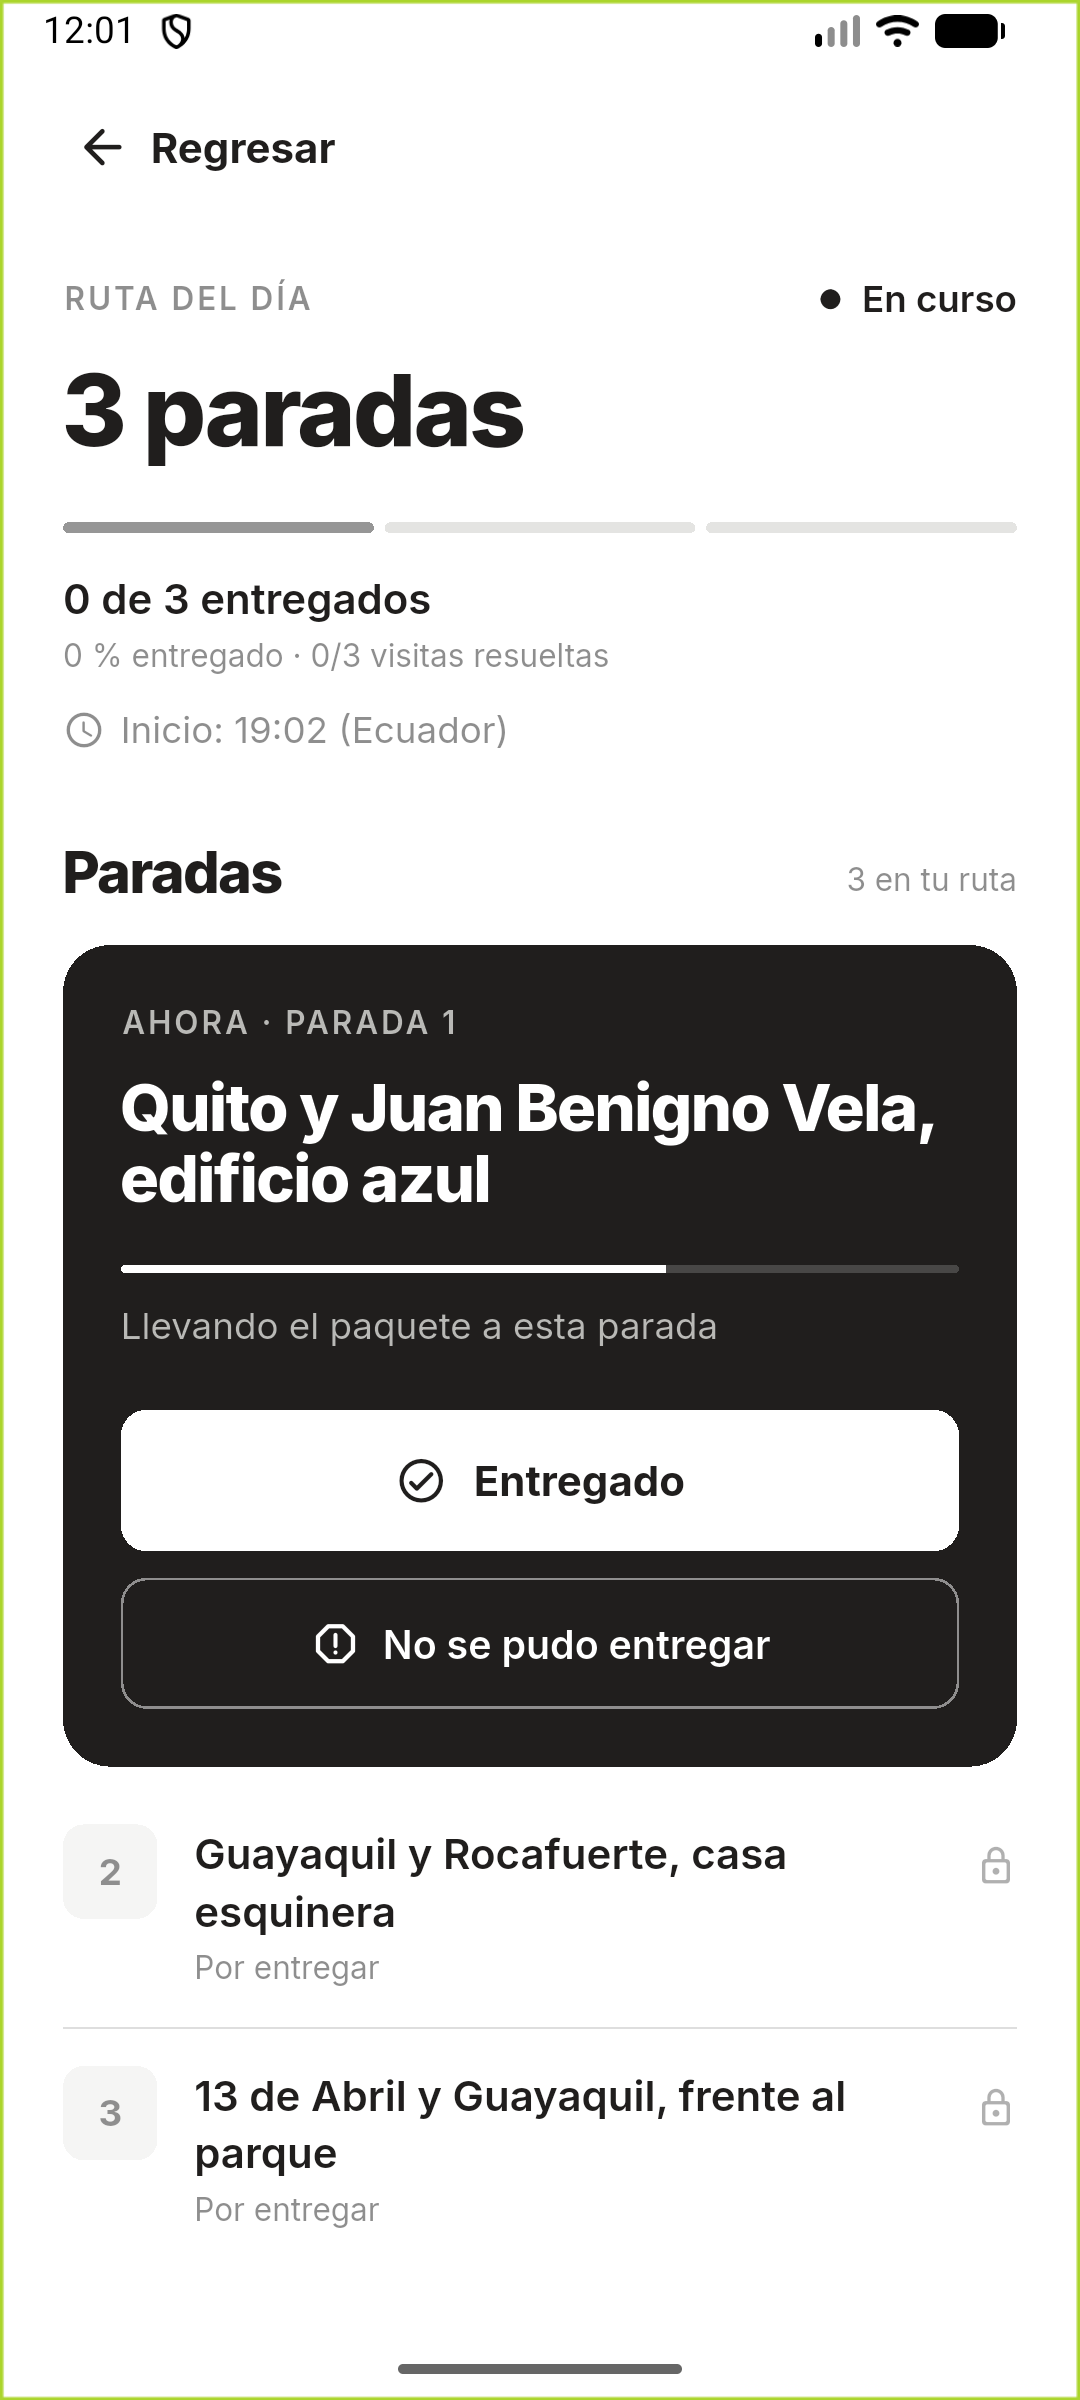
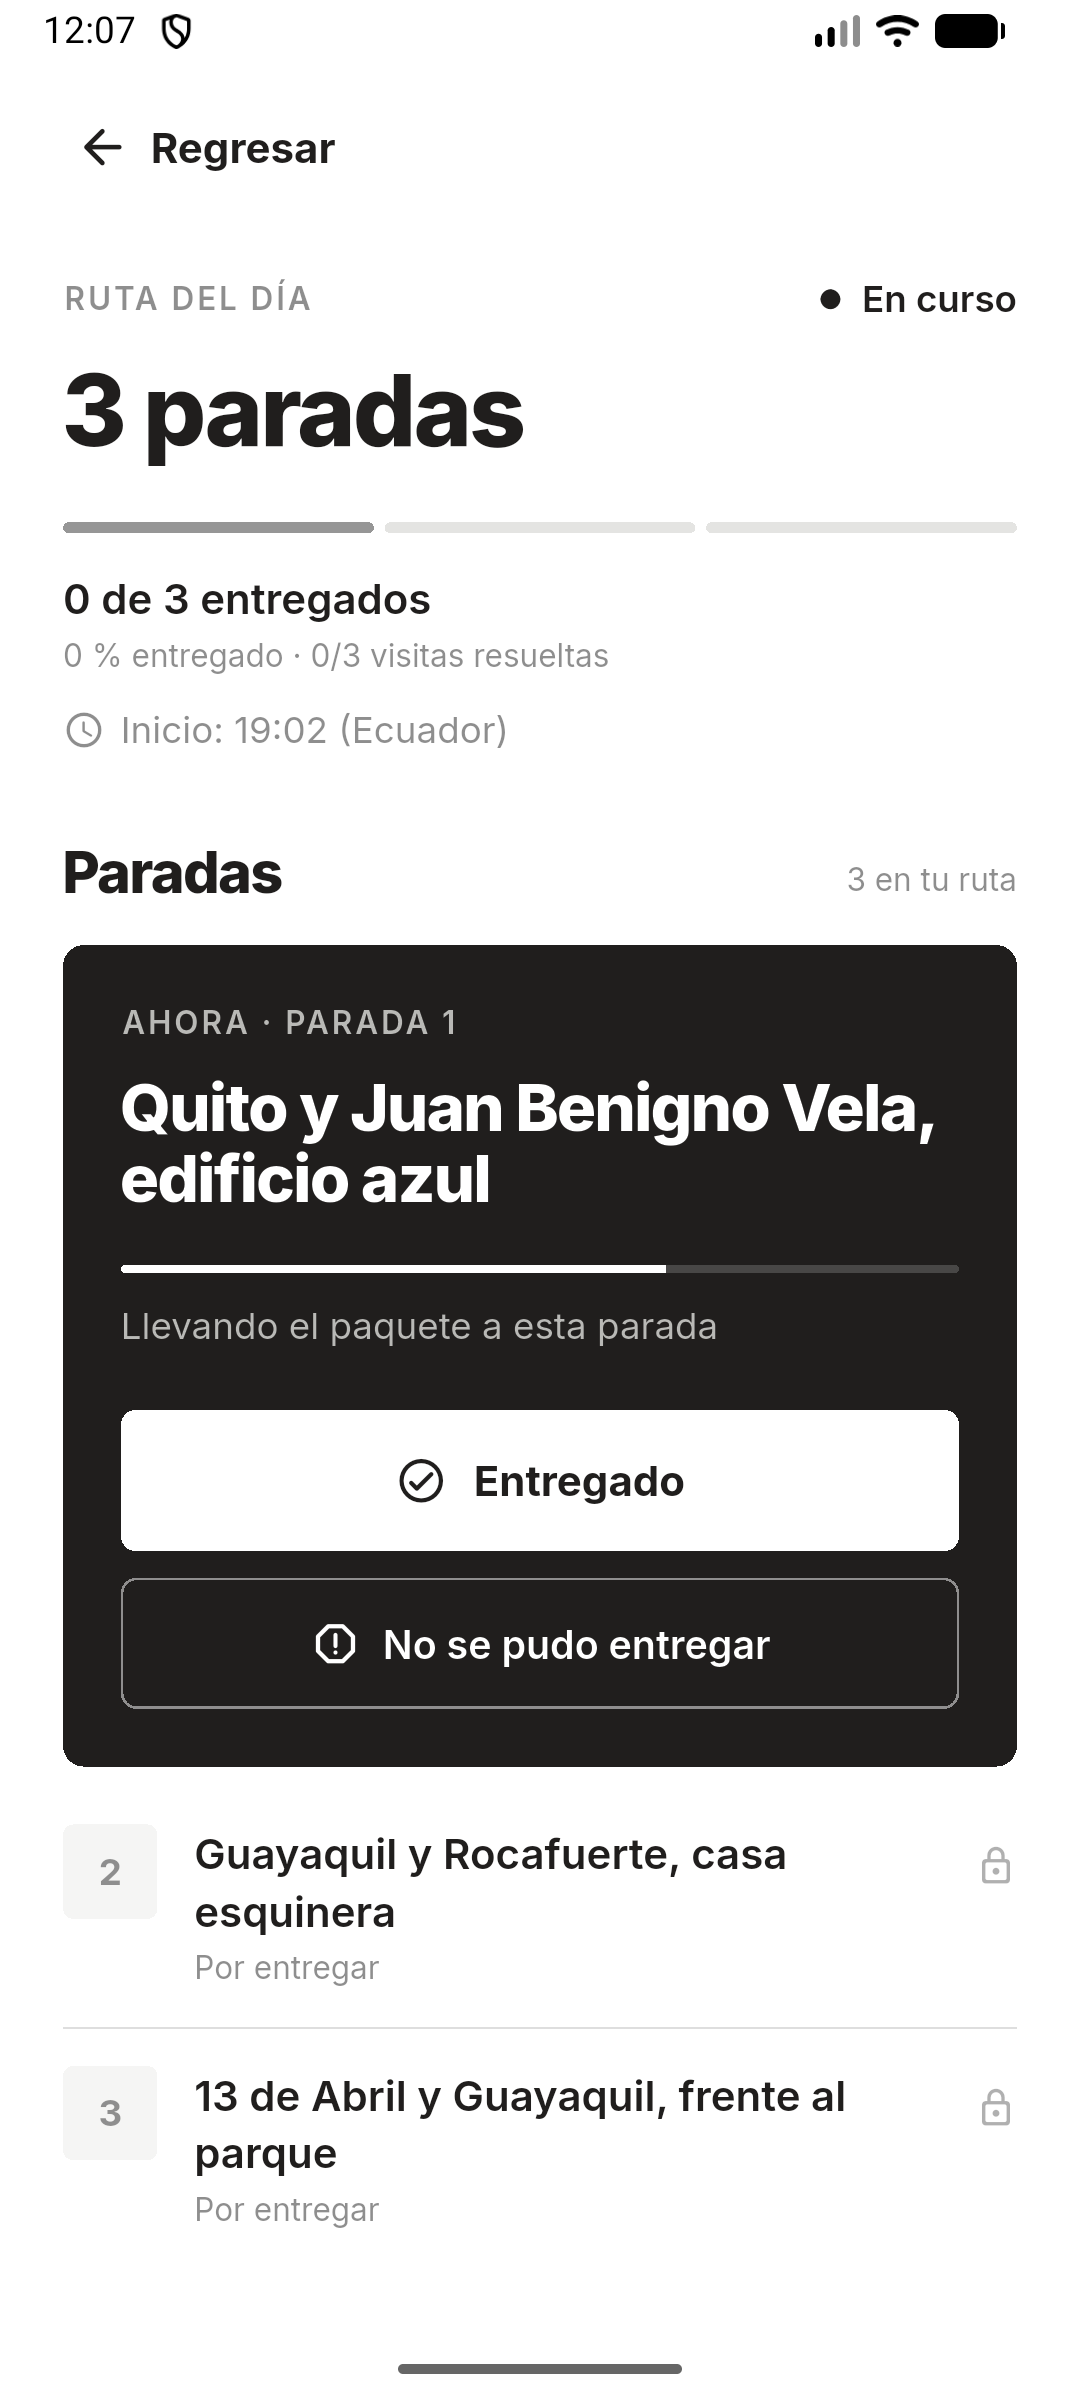
style(driver): esquinas menos redondeadas en tarjetas, botones y hojas

diff --git a/lib/features/routes/presentation/route_style.dart b/lib/features/routes/presentation/route_style.dart
@@ -26,9 +26,9 @@ class RouteTone {
 }
 
 class RouteRadius {
-  static const card = BorderRadius.all(Radius.circular(18));
-  static const tile = BorderRadius.all(Radius.circular(14));
-  static const chip = BorderRadius.all(Radius.circular(8));
+  static const card = BorderRadius.all(Radius.circular(8));
+  static const tile = BorderRadius.all(Radius.circular(6));
+  static const chip = BorderRadius.all(Radius.circular(4));
 }
 
 /// Inter es variable: el grosor también se indica como variación.

diff --git a/lib/features/routes/presentation/my_route_page.dart b/lib/features/routes/presentation/my_route_page.dart
@@ -286,7 +286,7 @@ class _MyRoutePageState extends State<MyRoutePage> with WidgetsBindingObserver {
       isScrollControlled: true,
       backgroundColor: Colors.white,
       shape: const RoundedRectangleBorder(
-        borderRadius: BorderRadius.vertical(top: Radius.circular(24)),
+        borderRadius: BorderRadius.vertical(top: Radius.circular(12)),
       ),
       builder: (_) => FailedVisitSheet(
         address: stop.address,

diff --git a/lib/core/theme/app_theme.dart b/lib/core/theme/app_theme.dart
@@ -89,7 +89,7 @@ class AppSpacing {
 }
 
 class AppRadius {
-  static const button = BorderRadius.all(Radius.circular(10));
+  static const button = BorderRadius.all(Radius.circular(6));
 }
 
 TextStyle _style(
